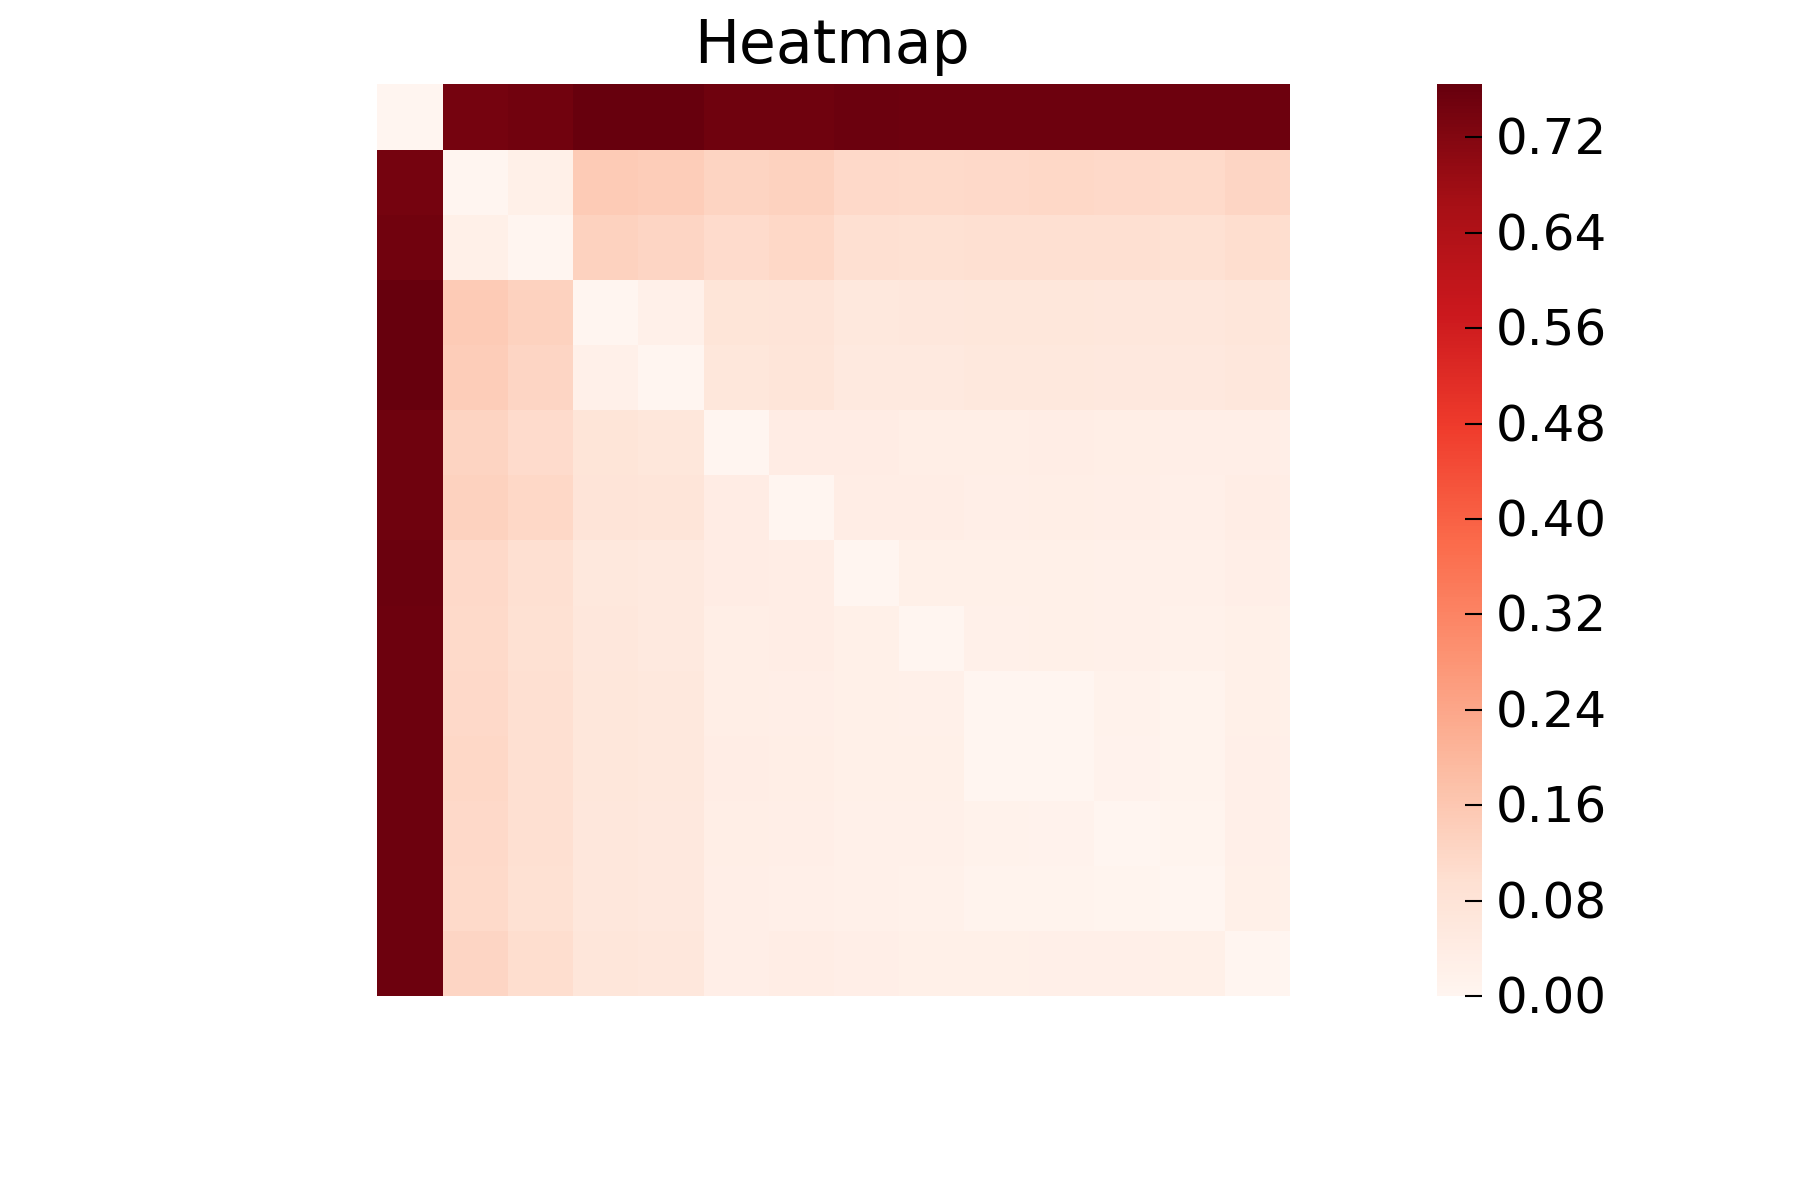
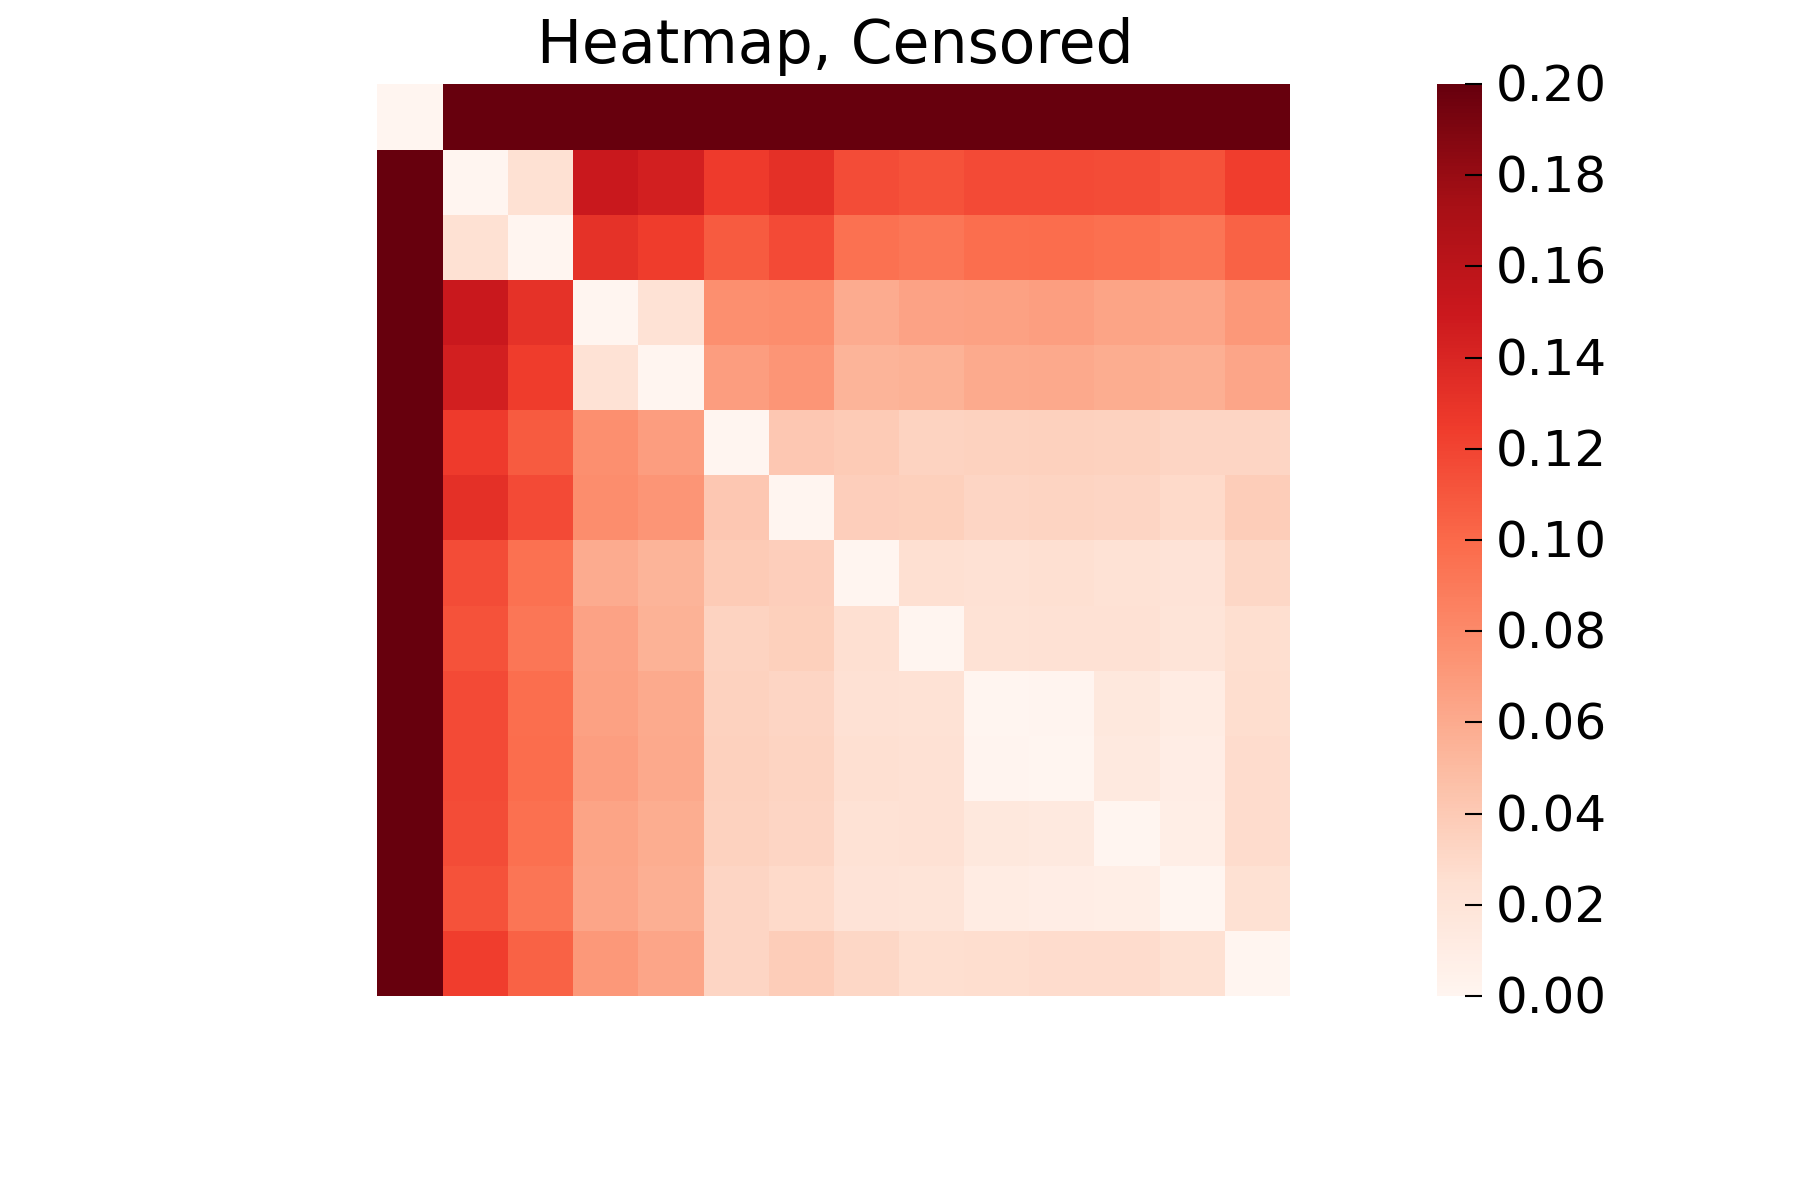
adding the ability to change the colormap range

diff --git a/src/quick_plot.py b/src/quick_plot.py
@@ -624,6 +624,27 @@ def PlotDensity(data_list, ax, args):
   PlotLineScatter(density_list, ax, args)
 
 
+def HandleColormapLimits(data, args):
+  """ Return appropriate values for upper and lower bound colorbar limits.
+
+  Args:
+    data: a Data object
+    args: an argparse arguments object
+  Returns:
+    lb: a lower bound value for the map
+    ub: an upper bound value for the map
+  """
+  if args.matrix_colormap_min is not None:
+    lb = args.matrix_colormap_min
+  else:
+    lb = numpy.min(numpy.min(data.matrix))
+  if args.matrix_colormap_max is not None:
+    ub = args.matrix_colormap_max
+  else:
+    ub = numpy.max(numpy.max(data.matrix))
+  return lb, ub
+
+
 def PlotMatrix(data_list, ax, args):
   """ Plot a matrix as a 2D matrix.
 
@@ -639,20 +660,15 @@ def PlotMatrix(data_list, ax, args):
   data.reverse_matrix_rows()
   data.reverse_matrix_cols()
   cmap = plt.get_cmap(args.matrix_cmap)
-  norm = None
+  cmap_lb, cmap_ub = HandleColormapLimits(data, args)
   if args.matrix_discritize_colormap:
     cmap_list = [cmap(i) for i in range(cmap.N)]
     cmap = cmap.from_list('Discritized', cmap_list, cmap.N)
-    if args.matrix_colormap_min is not None:
-      lb = args.matrix_colormap_min
-    else:
-      lb = numpy.min(numpy.min(data.matrix))
-    if args.matrix_colormap_max is not None:
-      ub = args.matrix_colormap_max
-    else:
-      ub = numpy.max(numpy.max(data.matrix)),
-    bounds = numpy.linspace(lb, ub, args.matrix_discritize_colormap + 1)
+    bounds = numpy.linspace(cmap_lb, cmap_ub,
+                            args.matrix_discritize_colormap + 1)
     norm = matplotlib.colors.BoundaryNorm(bounds, cmap.N)
+  else:
+    norm = matplotlib.colors.Normalize(vmin=cmap_lb, vmax=cmap_ub)
   if args.matrix_matshow:
     plt.matshow(data.matrix, fignum=False, origin='upper',
                 cmap=cmap, norm=norm)
@@ -661,6 +677,8 @@ def PlotMatrix(data_list, ax, args):
   if not args.matrix_no_colorbar:
     cb = plt.colorbar()
     cb.outline.set_linewidth(0)
+    if not args.matrix_discritize_colormap:
+      cb.set_clim(cmap_lb, cmap_ub)  # colormap limits for continuous
   ax.xaxis.set_ticks_position('none')
   ax.xaxis.set_ticks([])
   ax.yaxis.set_ticks_position('none')
